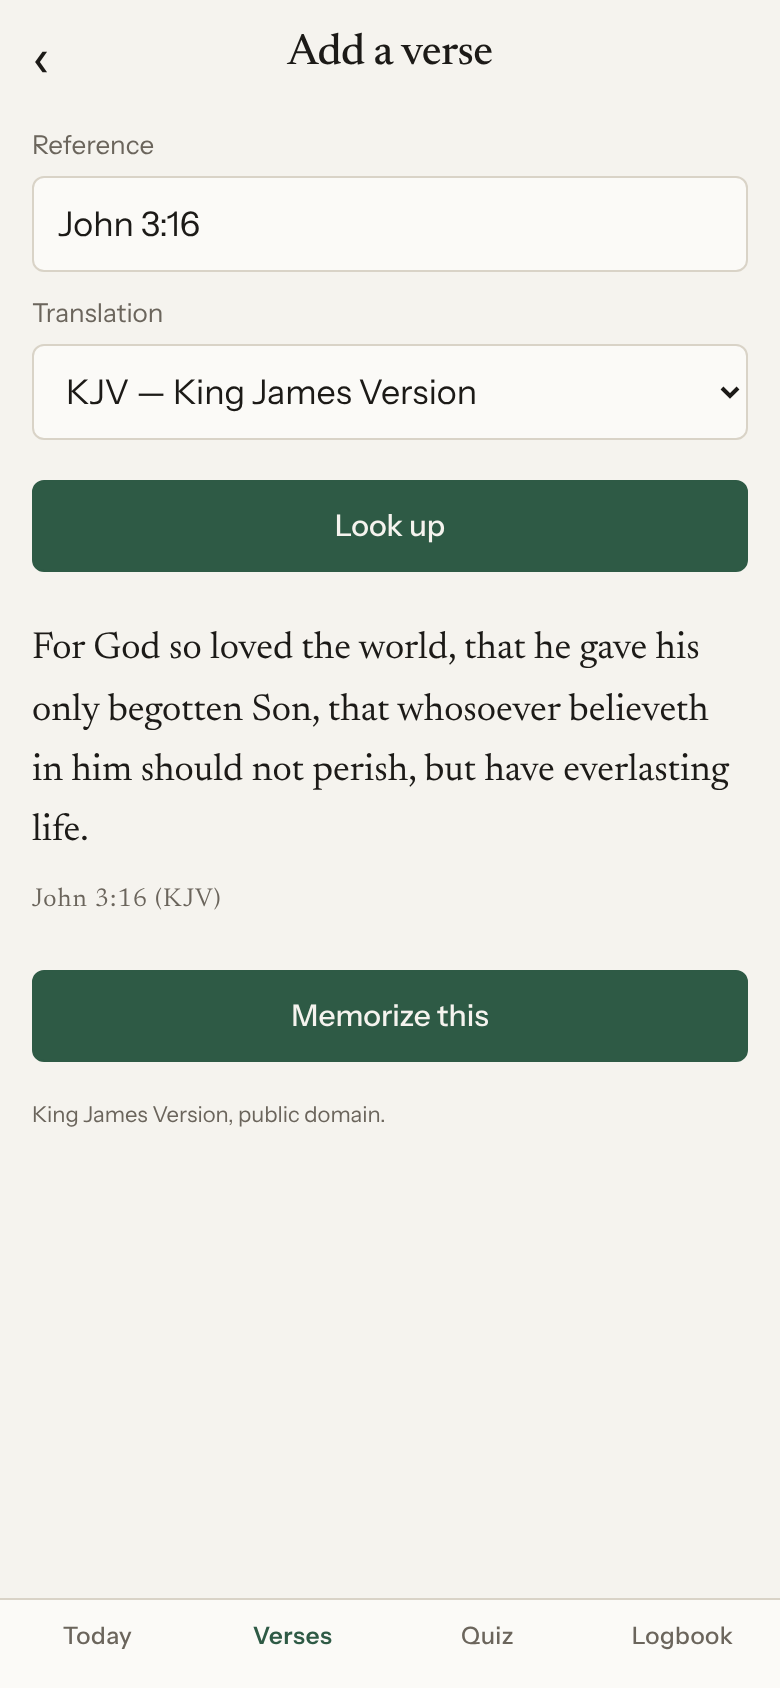
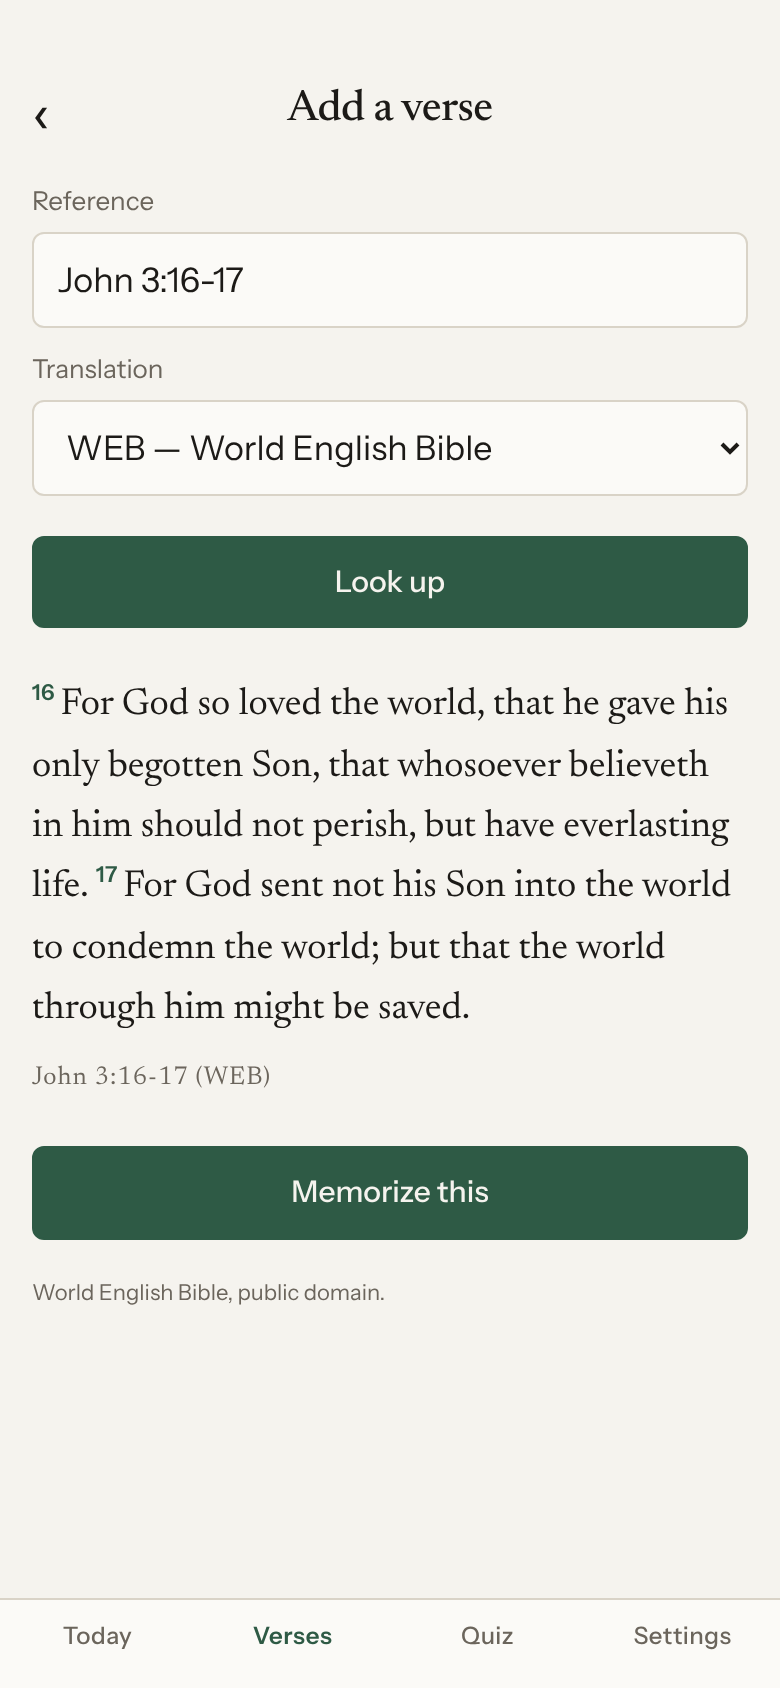
Read view: verse numbers inline, no hint list
- Record where each verse starts (bible-api, ESV API/site, LSB, API.Bible, and numbered pasted text)
- Small accent verse numbers in Read and the Add preview; chapter:verse at a chapter change
- Verses saved before this are backfilled on their next Read
- Thought-chunk list removed from Read; hints stay in the drills

Claude-Session: https://claude.ai/code/session_01BSrifmRxYYn5T4ULHbA2sZ

diff --git a/api/passage.ts b/api/passage.ts
@@ -10,7 +10,7 @@ type Res = { status: (n: number) => Res; json: (b: unknown) => void; send: (b: s
 
 const UA = 'Mozilla/5.0 (iPhone; CPU iPhone OS 17_0 like Mac OS X) AppleWebKit/605.1.15 (KHTML, like Gecko) Version/17.0 Mobile/15E148 Safari/604.1'
 
-export interface Passage { text: string; reference: string; verseEnd: number; source: string }
+export interface Passage { text: string; reference: string; verseEnd: number; source: string; verses?: { n: number; text: string }[] }
 
 export interface RefParams { ref: string; bookName: string; book: string; bn: number; ch: number; vs: number; ve: number; ce: number }
 
@@ -90,34 +90,42 @@ async function fetchApiBible(p: RefParams, translation: string, spec: ApiBibleSp
     : p.ve > p.vs ? `${p.book}.${p.ch}.${p.vs}-${p.book}.${p.ch}.${p.ve}` : `${p.book}.${p.ch}.${p.vs}`
   const params = new URLSearchParams({
     'content-type': 'text', 'include-notes': 'false', 'include-titles': 'false', 'include-chapter-numbers': 'false',
-    'include-verse-numbers': 'false', 'include-verse-spans': 'false', 'use-org-id': 'false',
+    'include-verse-numbers': 'true', 'include-verse-spans': 'false', 'use-org-id': 'false',
   })
   const r = await fetch(`${API_BIBLE}/bibles/${bibleId}/passages/${passageId}?${params}`, { headers: { 'api-key': key } })
   if (r.status === 404) throw new Error(`That passage was not found in the ${spec.label}.`)
   if (!r.ok) throw new Error(`API.Bible returned ${r.status}`)
   const { data } = await r.json() as { data?: { content?: string; reference?: string; verseCount?: number } }
-  const text = clean((data?.content ?? '').replace(/\[\d+\]/g, ' ').replace(/¶/g, ' '))
+  const raw = clean((data?.content ?? '').replace(/¶/g, ' '))
+  // With verse numbers on, content reads "[16] For God… [17] For God…"
+  const verses: { n: number; text: string }[] = []
+  for (const m of raw.matchAll(/\[(\d+)\]\s*([^[]+)/g)) { const t = clean(m[2]); if (t) verses.push({ n: Number(m[1]), text: t }) }
+  const text = verses.length ? verses.map(v => v.text).join(' ') : clean(raw.replace(/\[\d+\]/g, ' '))
   if (!text) throw new Error(`That passage was not found in the ${spec.label}.`)
   const verseCount = data?.verseCount ?? 1
   const verseEnd = whole ? verseCount : cross ? p.ve : p.vs + verseCount - 1
-  return { text, reference: data?.reference?.trim() || p.ref, verseEnd, source: `api.bible: ${bibleNames[translation] ?? bibleId}` }
+  return { text, reference: data?.reference?.trim() || p.ref, verseEnd, source: `api.bible: ${bibleNames[translation] ?? bibleId}`, verses: verses.length ? verses : undefined }
 }
 
 /* ---------------- ESV (official API) ---------------- */
 
 async function fetchEsvApi(ref: string, key: string): Promise<Passage> {
   const params = new URLSearchParams({
-    q: ref, 'include-headings': 'false', 'include-footnotes': 'false', 'include-verse-numbers': 'false',
-    'include-short-copyright': 'false', 'include-passage-references': 'false', 'include-first-verse-numbers': 'false',
+    q: ref, 'include-headings': 'false', 'include-footnotes': 'false', 'include-verse-numbers': 'true',
+    'include-short-copyright': 'false', 'include-passage-references': 'false', 'include-first-verse-numbers': 'true',
     'include-selahs': 'true', 'indent-paragraphs': '0', 'indent-poetry': 'false',
   })
   const r = await fetch(`https://api.esv.org/v3/passage/text/?${params}`, { headers: { Authorization: `Token ${key}` } })
   if (!r.ok) throw new Error(`ESV API error ${r.status}`)
   const data = await r.json() as { passages: string[]; canonical: string; passage_meta: { end: number[] }[] }
-  const text = clean(data.passages?.[0] ?? '')
-  if (!text) throw new Error('That passage was not found.')
+  const raw = clean(data.passages?.[0] ?? '')
+  if (!raw) throw new Error('That passage was not found.')
+  // Verse numbers come back in brackets, e.g. "[16] For God… [17] For God…"
+  const verses: { n: number; text: string }[] = []
+  for (const m of raw.matchAll(/\[(\d+)\]\s*([^[]+)/g)) verses.push({ n: Number(m[1]), text: clean(m[2]) })
+  const text = verses.length ? verses.map(v => v.text).join(' ') : raw.replace(/\[\d+\]\s*/g, '')
   const endPacked = data.passage_meta?.[0]?.end?.[0] ?? 0
-  return { text, reference: data.canonical, verseEnd: endPacked % 1000, source: 'api.esv.org' }
+  return { text, reference: data.canonical, verseEnd: endPacked % 1000, source: 'api.esv.org', verses: verses.length ? verses : undefined }
 }
 
 /* ---------------- ESV (reader page, interim) ----------------
@@ -155,7 +163,7 @@ async function fetchEsvSite(p: RefParams): Promise<Passage> {
   const reference = last.c !== p.ch
     ? `${p.bookName} ${p.ch}:${p.vs}-${last.c}:${verseEnd}`
     : `${p.bookName} ${p.ch}:${p.vs}${verseEnd !== p.vs ? `-${verseEnd}` : ''}`
-  return { text: clean(verses.map(v => v.text).join(' ')), reference, verseEnd, source: 'www.esv.org' }
+  return { text: clean(verses.map(v => v.text).join(' ')), reference, verseEnd, source: 'www.esv.org', verses }
 }
 
 /* ---------------- LSB ----------------
@@ -194,7 +202,7 @@ async function fetchLsb(ref: string, retry = true): Promise<Passage> {
   }
   const passages = data.pageProps?.passages ?? []
   if (!passages.length) throw new Error('That passage was not found in the LSB.')
-  const verses: string[] = []
+  const verses: { n: number; text: string }[] = []
   let verseEnd = 0
   for (const p of passages) {
     const html = p.passageHtml ?? ''
@@ -206,13 +214,13 @@ async function fetchLsb(ref: string, retry = true): Promise<Passage> {
         .replace(/<b\b[^>]*class="[^"]*chapnum[^"]*"[^>]*>[\s\S]*?<\/b>/gi, ' ')
         .replace(/<div\b[^>]*class="[^"]*psalm-title[^"]*"[^>]*>[\s\S]*?<\/div>/gi, ' ')
         .replace(/<\/span>/g, ' ').replace(/<[^>]+>/g, '')))
-      if (text) verses.push(text)
+      if (text) verses.push({ n: verseEnd, text })
     }
     if (!verseEnd && p.to?.vn) verseEnd = p.to.vn
   }
-  const text = clean(verses.join(' '))
+  const text = clean(verses.map(v => v.text).join(' '))
   if (!text) throw new Error('Could not read the LSB passage.')
-  return { text, reference: passages[0]?.title?.trim() || ref, verseEnd, source: 'read.lsbible.org' }
+  return { text, reference: passages[0]?.title?.trim() || ref, verseEnd, source: 'read.lsbible.org', verses }
 }
 
 interface LsbPassage { title?: string; passageHtml?: string; from?: { bn: number; cn: number; vn: number }; to?: { bn: number; cn: number; vn: number } }

diff --git a/src/pages/AddVerse.tsx b/src/pages/AddVerse.tsx
@@ -4,6 +4,7 @@ import { getSettings } from '../lib/db'
 import { parseReference } from '../lib/refs'
 import { TRANSLATIONS, fetchPassage, getTranslation } from '../lib/bible'
 import { addVerse } from '../lib/verses'
+import { verseStartsFrom, splitPastedVerses } from '../lib/text'
 import type { TranslationId } from '../lib/types'
 import Header from '../components/Header'
 import VerseText from '../components/VerseText'
@@ -12,7 +13,7 @@ export default function AddVerse() {
   const nav = useNavigate()
   const [ref, setRef] = useState('')
   const [translation, setTranslation] = useState<TranslationId>('web')
-  const [preview, setPreview] = useState<{ text: string; reference: string; verseEnd: number } | null>(null)
+  const [preview, setPreview] = useState<{ text: string; reference: string; verseEnd: number; verses?: { n: number; text: string }[] } | null>(null)
   const [error, setError] = useState('')
   const [busy, setBusy] = useState(false)
   const [ownText, setOwnText] = useState('')
@@ -26,9 +27,11 @@ export default function AddVerse() {
     const parsed = parseReference(ref)
     if ('error' in parsed) { setError(parsed.error); return }
     if (isManual) {
-      const text = ownText.replace(/\s+/g, ' ').trim()
-      if (!text) { setError('Paste the verse text from your Bible.'); return }
-      setPreview({ text, reference: parsed.canonical, verseEnd: parsed.verseEnd === 999 ? parsed.verseStart : parsed.verseEnd })
+      const raw = ownText.replace(/\s+/g, ' ').trim()
+      if (!raw) { setError('Paste the verse text from your Bible.'); return }
+      const split = splitPastedVerses(raw, parsed.verseStart)
+      const verseEnd = split ? split.verses[split.verses.length - 1].n : parsed.verseEnd === 999 ? parsed.verseStart : parsed.verseEnd
+      setPreview({ text: split ? split.text : raw, reference: `${parsed.book.name} ${parsed.chapter}:${parsed.verseStart}${verseEnd !== parsed.verseStart ? `-${verseEnd}` : ''}`, verseEnd, verses: split?.verses })
       return
     }
     setBusy(true)
@@ -78,7 +81,7 @@ export default function AddVerse() {
       </form>
       {preview && (
         <section>
-          <VerseText text={preview.text} reference={`${preview.reference} (${isManual ? ownLabel : getTranslation(translation).abbr})`} />
+          <VerseText text={preview.text} reference={`${preview.reference} (${isManual ? ownLabel : getTranslation(translation).abbr})`} verseStarts={preview.verses ? verseStartsFrom(preview.verses) : undefined} />
           <button className="button primary" onClick={save} disabled={busy}>{busy ? 'Saving…' : 'Memorize this'}</button>
           <p className="attribution">{getTranslation(translation).attribution}</p>
           {getTranslation(translation).provider === 'api.bible' && <p className="attribution">Scripture text provided by <a href="https://api.bible" target="_blank" rel="noopener">API.Bible</a>.</p>}

diff --git a/src/pages/Practice.tsx b/src/pages/Practice.tsx
@@ -2,7 +2,9 @@ import { useEffect, useMemo, useRef, useState } from 'react'
 import { useParams, useSearchParams, Link } from 'react-router-dom'
 import { useLiveQuery } from 'dexie-react-hooks'
 import { db } from '../lib/db'
-import { tokenize, wordDiff, normalizeWord, type DiffOp } from '../lib/text'
+import { tokenize, wordDiff, normalizeWord, verseStartsFrom, type DiffOp } from '../lib/text'
+import { fetchPassage } from '../lib/bible'
+import { refFromVerse } from '../lib/refs'
 import { hintText } from '../lib/hints'
 import { gradeFromAccuracy, newReviewState, penalize, review } from '../lib/srs'
 import { parseReference } from '../lib/refs'
@@ -154,14 +156,18 @@ function Result({ accuracy, ops, onAgain }: { accuracy: number; ops?: DiffOp[]; 
 function ReadMode({ verse }: { verse: Verse }) {
   const started = useRef(Date.now())
   useEffect(() => { return () => { recordAttempt(verse, 'read', 1, 0, started.current) } }, [verse])
+  // Verses saved before verse breaks were recorded: fetch them once and remember.
+  useEffect(() => {
+    if (verse.verseStarts || verse.translation === 'custom') return
+    const ref = refFromVerse(verse)
+    if (!ref) return
+    fetchPassage(ref, verse.translation).then(p => {
+      if (p.verses?.length) db.verses.update(verse.id!, { verseStarts: verseStartsFrom(p.verses) })
+    }).catch(() => { /* offline; try again next time */ })
+  }, [verse.id])
   return (
     <section>
-      <VerseText text={verse.text} reference={`${verse.reference} (${(verse.translationLabel ?? verse.translation.toUpperCase())})`} />
-      {verse.chunks && (
-        <ol className="chunks">
-          {verse.chunks.map((c, i) => <li key={i}><strong>{c.keyword}</strong> — {c.gist}</li>)}
-        </ol>
-      )}
+      <VerseText text={verse.text} reference={`${verse.reference} (${verse.translationLabel ?? verse.translation.toUpperCase()})`} verseStarts={verse.verseStarts} chapter={verse.chapter} />
       <p className="muted">Read it aloud three times, then try <em>First letters</em>.</p>
     </section>
   )

diff --git a/src/components/VerseText.tsx b/src/components/VerseText.tsx
@@ -1,8 +1,37 @@
-export default function VerseText({ text, reference }: { text: string; reference: string }) {
+import { tokenize } from '../lib/text'
+
+interface Props { text: string; reference: string; verseStarts?: { n: number; word: number }[]; chapter?: number }
+
+export default function VerseText({ text, reference, verseStarts, chapter }: Props) {
   return (
     <figure className="verse">
-      <blockquote className="verse-text">{text}</blockquote>
+      <blockquote className="verse-text">
+        {verseStarts?.length ? <NumberedWords words={tokenize(text)} verseStarts={verseStarts} chapter={chapter} /> : text}
+      </blockquote>
       <figcaption className="verse-ref">{reference}</figcaption>
     </figure>
+  )
+}
+
+/** Words with a small verse number before the first word of each verse. When numbering restarts, the passage has
+ *  crossed into the next chapter, so that verse is labelled "chapter:verse". */
+export function NumberedWords({ words, verseStarts, chapter }: { words: string[]; verseStarts: { n: number; word: number }[]; chapter?: number }) {
+  const labels = new Map<number, string>()
+  let c = chapter ?? 0, prev = -1
+  for (const v of verseStarts) {
+    const restart = prev >= 0 && v.n <= prev
+    if (restart) c++
+    labels.set(v.word, restart && chapter ? `${c}:${v.n}` : String(v.n))
+    prev = v.n
+  }
+  return (
+    <>
+      {words.map((w, i) => (
+        <span key={i}>
+          {labels.has(i) && <sup className="vnum">{labels.get(i)}</sup>}
+          {w}{i < words.length - 1 ? ' ' : ''}
+        </span>
+      ))}
+    </>
   )
 }

diff --git a/src/lib/bible.ts b/src/lib/bible.ts
@@ -21,7 +21,7 @@ export function getTranslation(id: TranslationId): Translation {
   return TRANSLATIONS.find(t => t.id === id) ?? TRANSLATIONS[0]
 }
 
-export interface FetchedPassage { text: string; reference: string; verseEnd: number }
+export interface FetchedPassage { text: string; reference: string; verseEnd: number; verses?: { n: number; text: string }[] }
 
 /** Fetch passage text. Public-domain translations go straight to bible-api.com; keyed ones via /api. */
 export async function fetchPassage(ref: ParsedRef, translation: TranslationId): Promise<FetchedPassage> {
@@ -33,8 +33,8 @@ export async function fetchPassage(ref: ParsedRef, translation: TranslationId): 
     if (!res.ok) throw new Error(res.status === 404 ? 'That passage was not found.' : `Bible API error (${res.status}).`)
     const data = await res.json() as { verses: { verse: number; text: string }[]; reference: string }
     if (!data.verses?.length) throw new Error('That passage was not found.')
-    const text = data.verses.map(v => v.text.replace(/\s+/g, ' ').trim()).join(' ')
-    return { text, reference: data.reference, verseEnd: data.verses[data.verses.length - 1].verse }
+    const verses = data.verses.map(v => ({ n: v.verse, text: v.text.replace(/\s+/g, ' ').trim() }))
+    return { text: verses.map(v => v.text).join(' '), reference: data.reference, verseEnd: verses[verses.length - 1].n, verses }
   }
   const params = new URLSearchParams({
     ref: q, translation: t.id, book: ref.book.id, bn: String(BOOKS.findIndex(b => b.id === ref.book.id) + 1),

diff --git a/src/lib/text.ts b/src/lib/text.ts
@@ -50,3 +50,30 @@ export function speechAccuracy(expected: string[], spoken: string): number {
   const { accuracy } = wordDiff(expected, tokenize(spoken))
   return accuracy
 }
+
+/** Word index where each verse begins, given per-verse text. */
+export function verseStartsFrom(verses: { n: number; text: string }[]): { n: number; word: number }[] {
+  const out: { n: number; word: number }[] = []
+  let i = 0
+  for (const v of verses) { out.push({ n: v.n, word: i }); i += tokenize(v.text).length }
+  return out
+}
+
+/** For pasted text like "16 For God so loved… 17 For God did not…": strip leading verse numbers and return the split. */
+export function splitPastedVerses(raw: string, first: number): { text: string; verses: { n: number; text: string }[] } | null {
+  const s = raw.replace(/\s+/g, ' ').trim()
+  const parts: { n: number; text: string }[] = []
+  let n = first, rest = s
+  while (true) {
+    const m = rest.match(new RegExp(`^(?:\\[?${n}\\]?|${n}[.:]?)\\s+`))
+    if (!m) break
+    rest = rest.slice(m[0].length)
+    const next = rest.search(new RegExp(`\\s(?:\\[?${n + 1}\\]?|${n + 1}[.:]?)\\s`))
+    const chunk = next >= 0 ? rest.slice(0, next) : rest
+    parts.push({ n, text: chunk.trim() })
+    if (next < 0) break
+    rest = rest.slice(next + 1); n++
+  }
+  if (parts.length < 1 || parts[0].text === '') return null
+  return { text: parts.map(p => p.text).join(' '), verses: parts }
+}

diff --git a/src/lib/refs.ts b/src/lib/refs.ts
@@ -1,4 +1,4 @@
-import { findBook, type Book } from './books'
+import { findBook, BOOKS, type Book } from './books'
 
 export interface ParsedRef {
   book: Book
@@ -31,4 +31,13 @@ export function parseReference(input: string): ParsedRef | { error: string } {
   if (chapterEnd === chapter && verseEnd < verseStart) return { error: 'The verse range is backwards.' }
   const range = !vsRaw ? '' : chapterEnd !== chapter ? `:${verseStart}-${chapterEnd}:${verseEnd}` : `:${verseStart}${verseEnd !== verseStart ? `-${verseEnd}` : ''}`
   return { book, chapter, verseStart, verseEnd, chapterEnd, canonical: `${book.name} ${chapter}${range}` }
+}
+
+/** Rebuild a reference from a stored verse's fields (for refetching). */
+export function refFromVerse(v: { bookId: string; chapter: number; verseStart: number; verseEnd: number; chapterEnd?: number }): ParsedRef | null {
+  const book = BOOKS.find(b => b.id === v.bookId)
+  if (!book) return null
+  const chapterEnd = v.chapterEnd ?? v.chapter
+  const range = chapterEnd !== v.chapter ? `:${v.verseStart}-${chapterEnd}:${v.verseEnd}` : `:${v.verseStart}${v.verseEnd !== v.verseStart ? `-${v.verseEnd}` : ''}`
+  return { book, chapter: v.chapter, verseStart: v.verseStart, verseEnd: v.verseEnd, chapterEnd, canonical: `${book.name} ${v.chapter}${range}` }
 }

diff --git a/src/lib/verses.ts b/src/lib/verses.ts
@@ -2,7 +2,7 @@
 import { db, getSettings } from './db'
 import { fetchPassage, getTranslation, type FetchedPassage } from './bible'
 import type { ParsedRef } from './refs'
-import { tokenize } from './text'
+import { tokenize, verseStartsFrom } from './text'
 import { newReviewState } from './srs'
 import { scheduleSync } from './sync'
 import type { ThoughtChunk, TranslationId, Verse } from './types'
@@ -50,6 +50,7 @@ export async function addVerse(parsed: ParsedRef, translation: TranslationId, op
     chapterEnd: parsed.chapterEnd !== parsed.chapter ? parsed.chapterEnd : undefined,
     translation, translationLabel: isManual ? label : undefined,
     text: passage.text, words, chunks, createdAt: Date.now(), fetchedAt: Date.now(),
+    verseStarts: passage.verses?.length ? verseStartsFrom(passage.verses) : passage.verseEnd === parsed.verseStart ? [{ n: parsed.verseStart, word: 0 }] : undefined,
   }) as number
   await db.reviews.put(newReviewState(id))
   if (opts.rememberTranslation) await db.settings.put({ ...(await getSettings()), defaultTranslation: translation })

diff --git a/src/styles/base.css b/src/styles/base.css
@@ -44,6 +44,7 @@ a { color: var(--accent); }
 .error { color: var(--miss); font-size: var(--fs-caption); }
 .verse { margin: var(--sp-4) 0; max-width: var(--measure); }
 .verse-text { font-family: var(--font-serif); font-size: var(--fs-verse); line-height: var(--lh-verse); margin: 0; font-variation-settings: 'opsz' 19; }
+.vnum { font-family: var(--font-sans); font-size: .58em; font-weight: 600; color: var(--accent); margin-right: .25em; vertical-align: super; line-height: 0; letter-spacing: .02em; }
 .verse-ref { margin-top: var(--sp-2); color: var(--ink-3); font-size: var(--fs-caption); letter-spacing: .04em; }
 .attribution { font-size: 11px; color: var(--ink-3); line-height: 1.4; }
 

diff --git a/src/lib/types.ts b/src/lib/types.ts
@@ -24,6 +24,7 @@ export interface Verse {
   translationLabel?: string   // e.g. "NIV" when translation === 'custom'
   text: string               // plain text, verse numbers stripped
   words: string[]            // tokenized text (display tokens, punctuation kept)
+  verseStarts?: { n: number; word: number }[]  // verse number -> index of its first word
   chunks?: ThoughtChunk[]    // LLM-generated hint structure (optional until fetched)
   createdAt: number
   fetchedAt?: number         // when the text was last fetched from its provider (licensed text is refreshed every 30 days)
